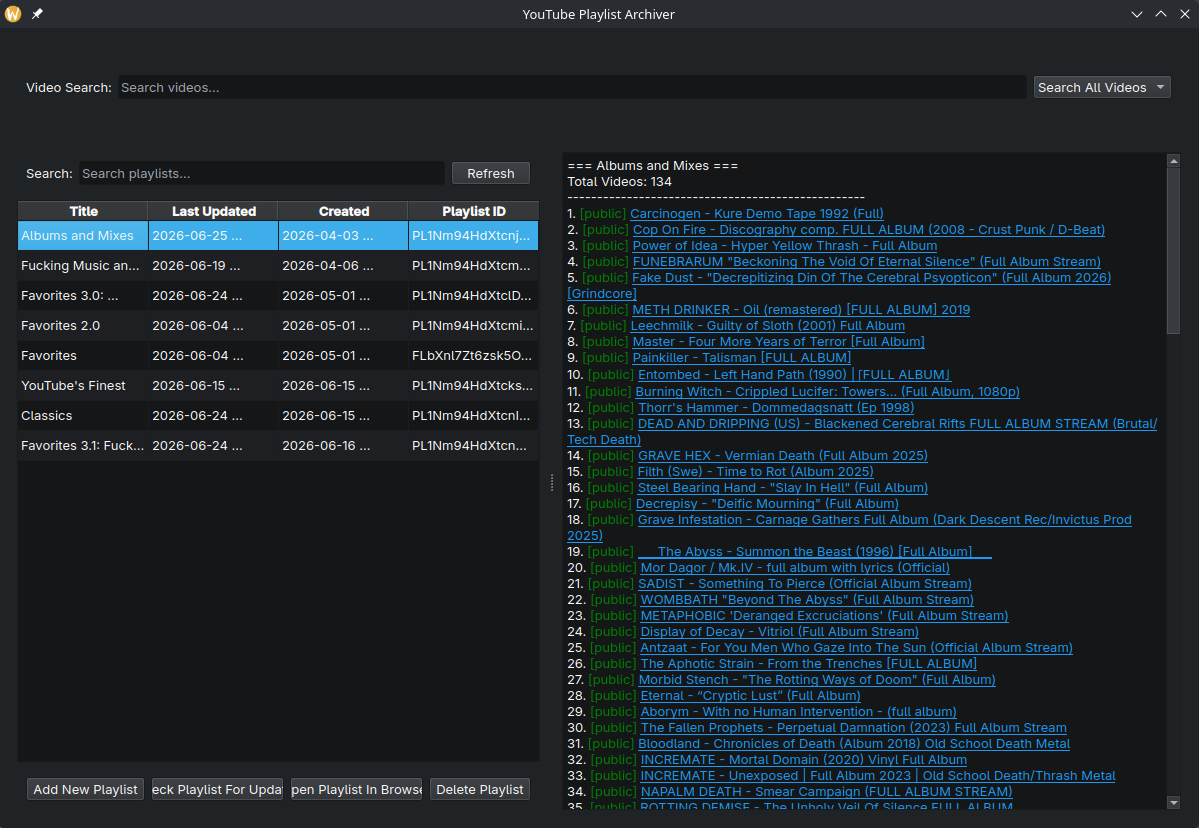
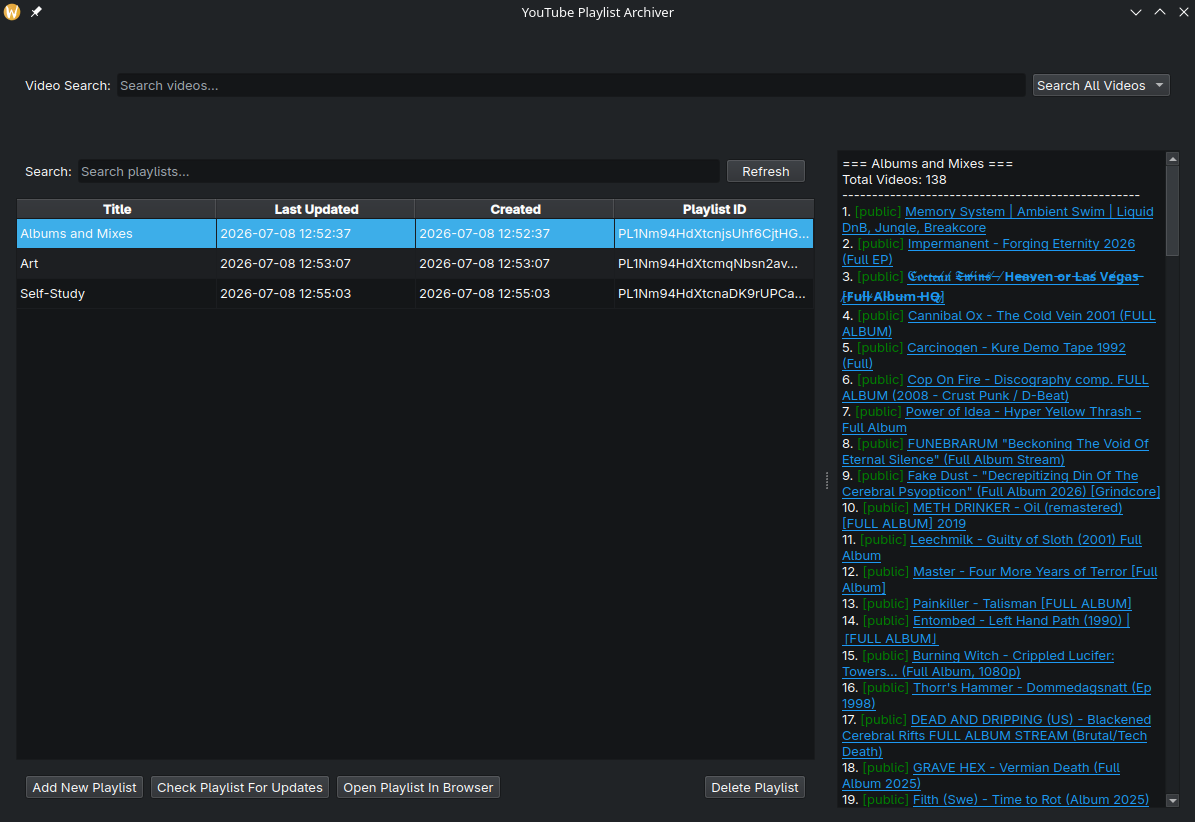
Add GitHub activity calendar to portfolio site

diff --git a/index.html b/index.html
@@ -4,8 +4,10 @@
   <meta charset="UTF-8">
   <meta name="viewport" content="width=device-width, initial-scale=1.0">
   <meta name="description" content="Portfolio of a skilled developer showcasing projects and skills">
-  <title>Portfolio - [Your Name]</title>
+  <title>Portfolio - Jose Harvey</title>
   <link rel="stylesheet" href="css/styles.css">
+  <script src="https://unpkg.com/github-calendar@latest/dist/github-calendar.min.js"></script>
+  <link rel="stylesheet" href="https://unpkg.com/github-calendar@latest/dist/github-calendar-responsive.css"/>
 </head>
 <body>
   <!-- Navigation -->
@@ -32,6 +34,10 @@
         <div class="hero-buttons">
           <a href="#projects" class="btn btn-primary">View My Work</a>
           <a href="#contact" class="btn btn-secondary">Get In Touch</a>
+        </div>
+        <div class="calendar">
+          <!-- Loading stuff -->
+          Loading the data just for you.
         </div>
       </div>
     </div>
@@ -215,11 +221,11 @@
   <!-- Footer -->
   <footer class="footer">
     <div class="container">
-      <p>&copy; 2026 [Your Name]. All rights reserved.</p>
+      <p>&copy; 2026 Jose Harvey. All rights reserved.</p>
       <div class="social-links">
-        <a href="#" target="_blank" rel="noopener noreferrer">GitHub</a>
-        <a href="#" target="_blank" rel="noopener noreferrer">LinkedIn</a>
-        <a href="#" target="_blank" rel="noopener noreferrer">Twitter</a>
+        <a href="https://github.com/pneumatick" target="_blank" rel="noopener noreferrer">GitHub</a>
+        <a href="https://www.linkedin.com/in/jose-harvey/" target="_blank" rel="noopener noreferrer">LinkedIn</a>
+        <a href="https://x.com/pneumatick_dev" target="_blank" rel="noopener noreferrer">Twitter / X</a>
       </div>
     </div>
   </footer>

diff --git a/css/styles.css b/css/styles.css
@@ -138,6 +138,7 @@ body {
   display: flex;
   gap: 1rem;
   animation: fadeInUp 0.8s ease 0.6s backwards;
+  padding-bottom: 5%;
 }
 
 /* Buttons */
@@ -476,6 +477,11 @@ section h2::after {
 
 .social-links a:hover {
   opacity: 1;
+}
+
+.calendar {
+  border: none;
+  animation: fadeInUp 0.8s ease 0.8s backwards;
 }
 
 /* Animations */

diff --git a/js/main.js b/js/main.js
@@ -124,6 +124,8 @@ document.addEventListener('DOMContentLoaded', () => {
     footerYear.innerHTML = footerYear.innerHTML.replace('2026', currentYear);
   }
 
+  // Add GitHub activity calendar
+  GitHubCalendar(".calendar", "pneumatick", { responsive: true });
 });
 
 // Add to all project cards for additional animation